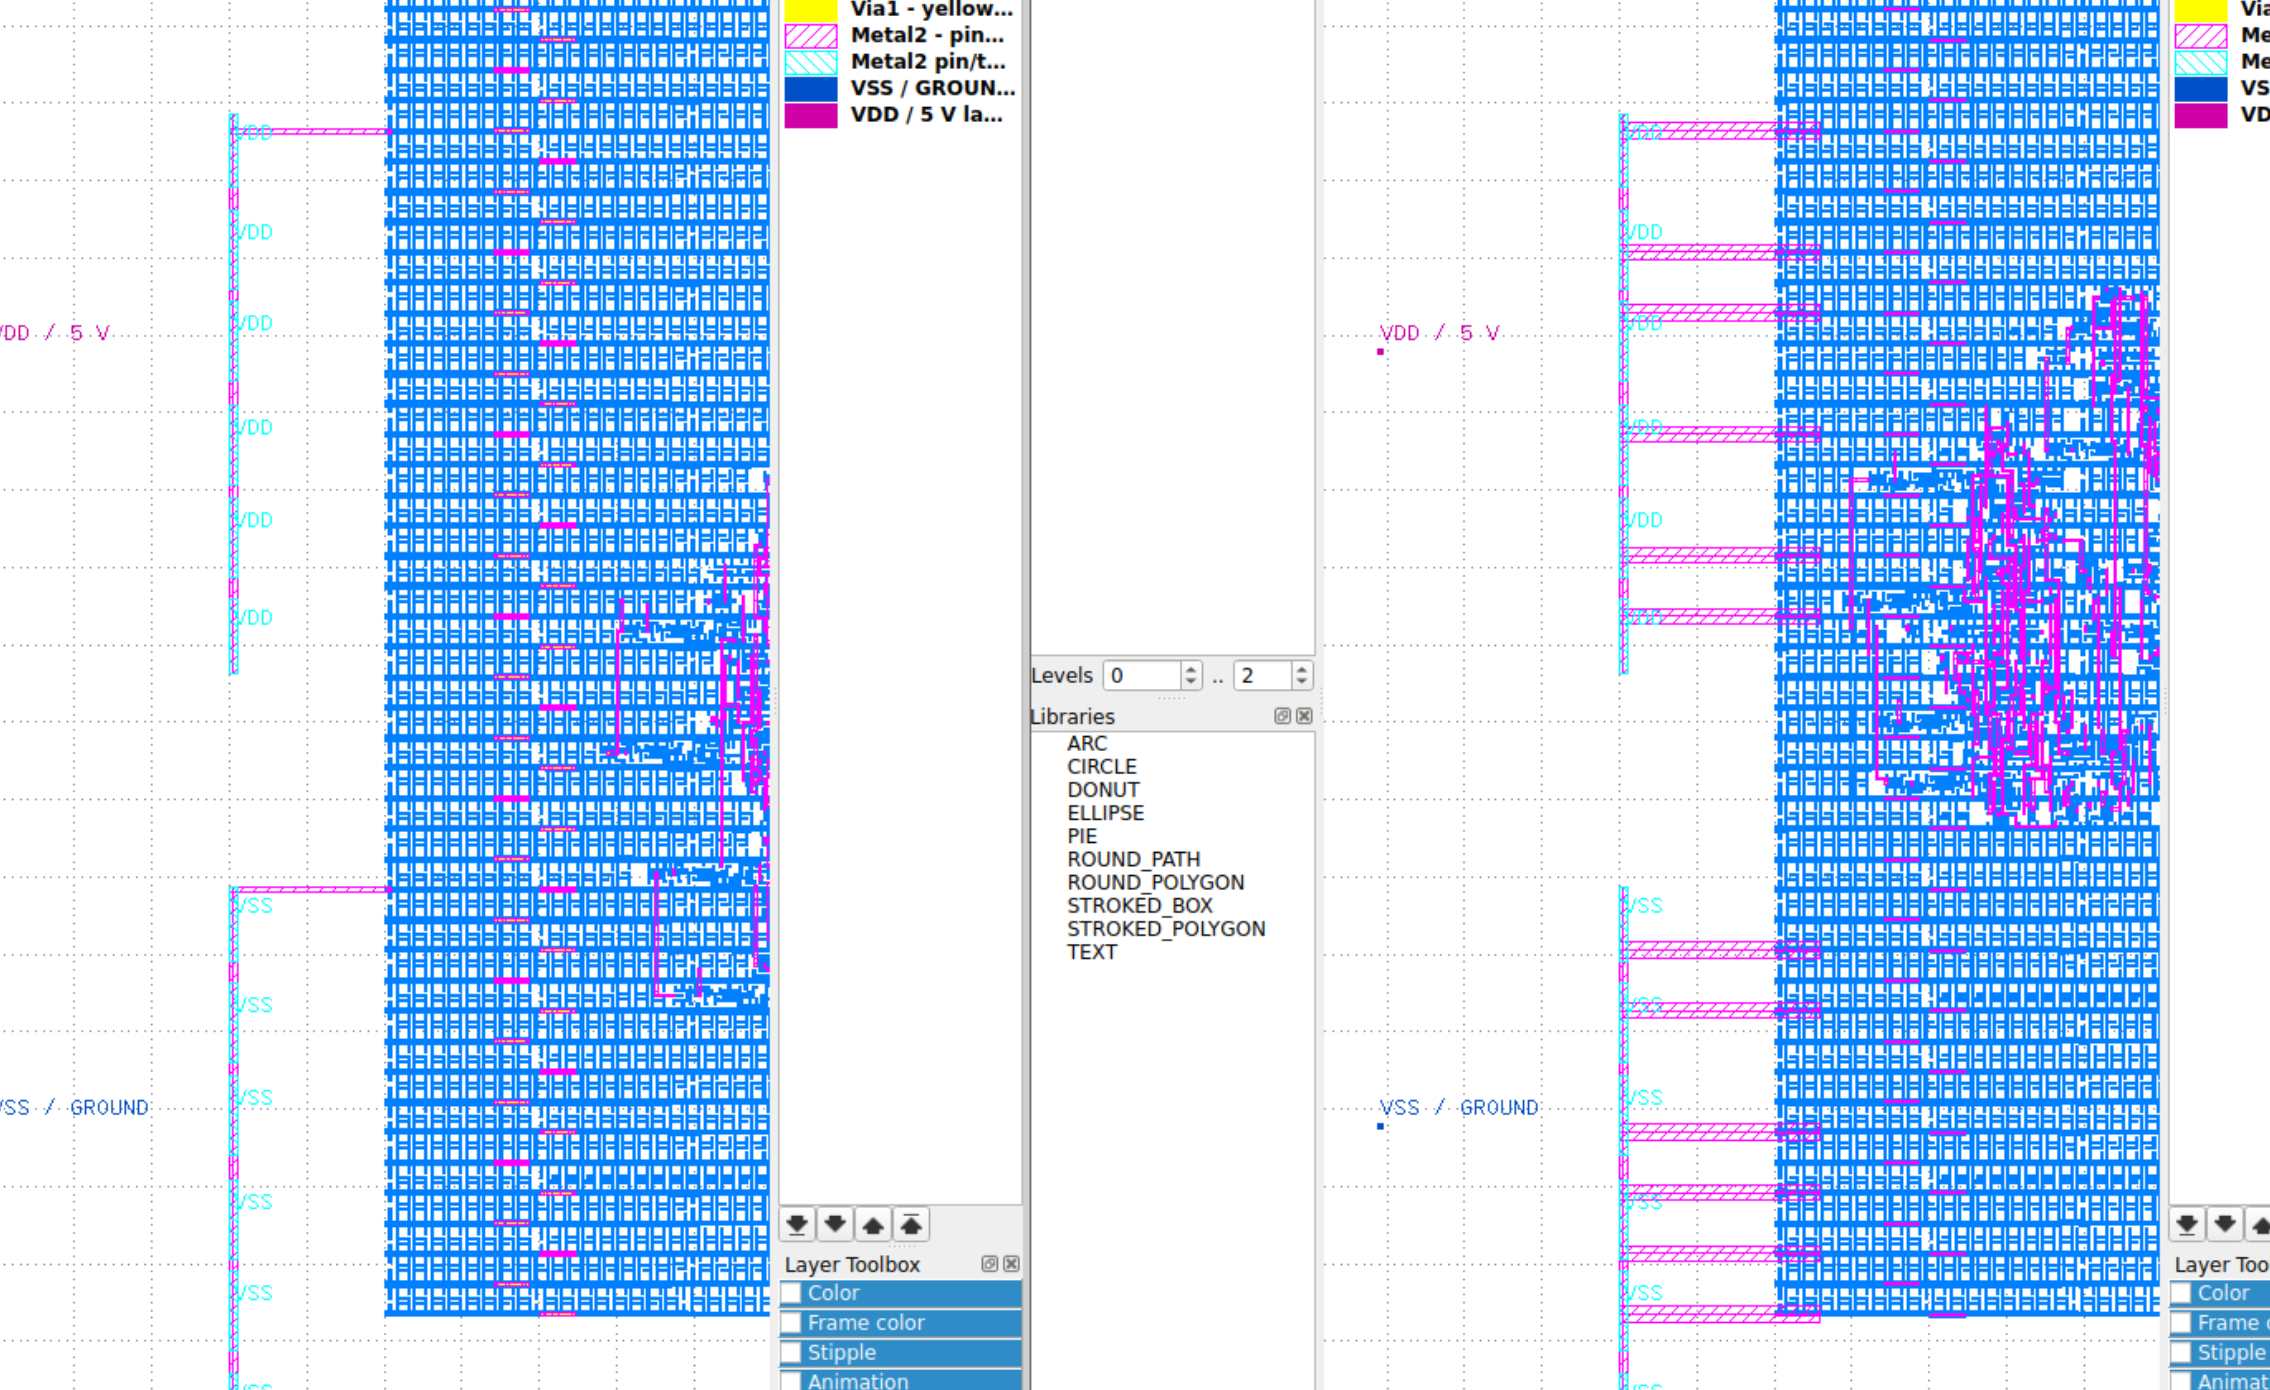
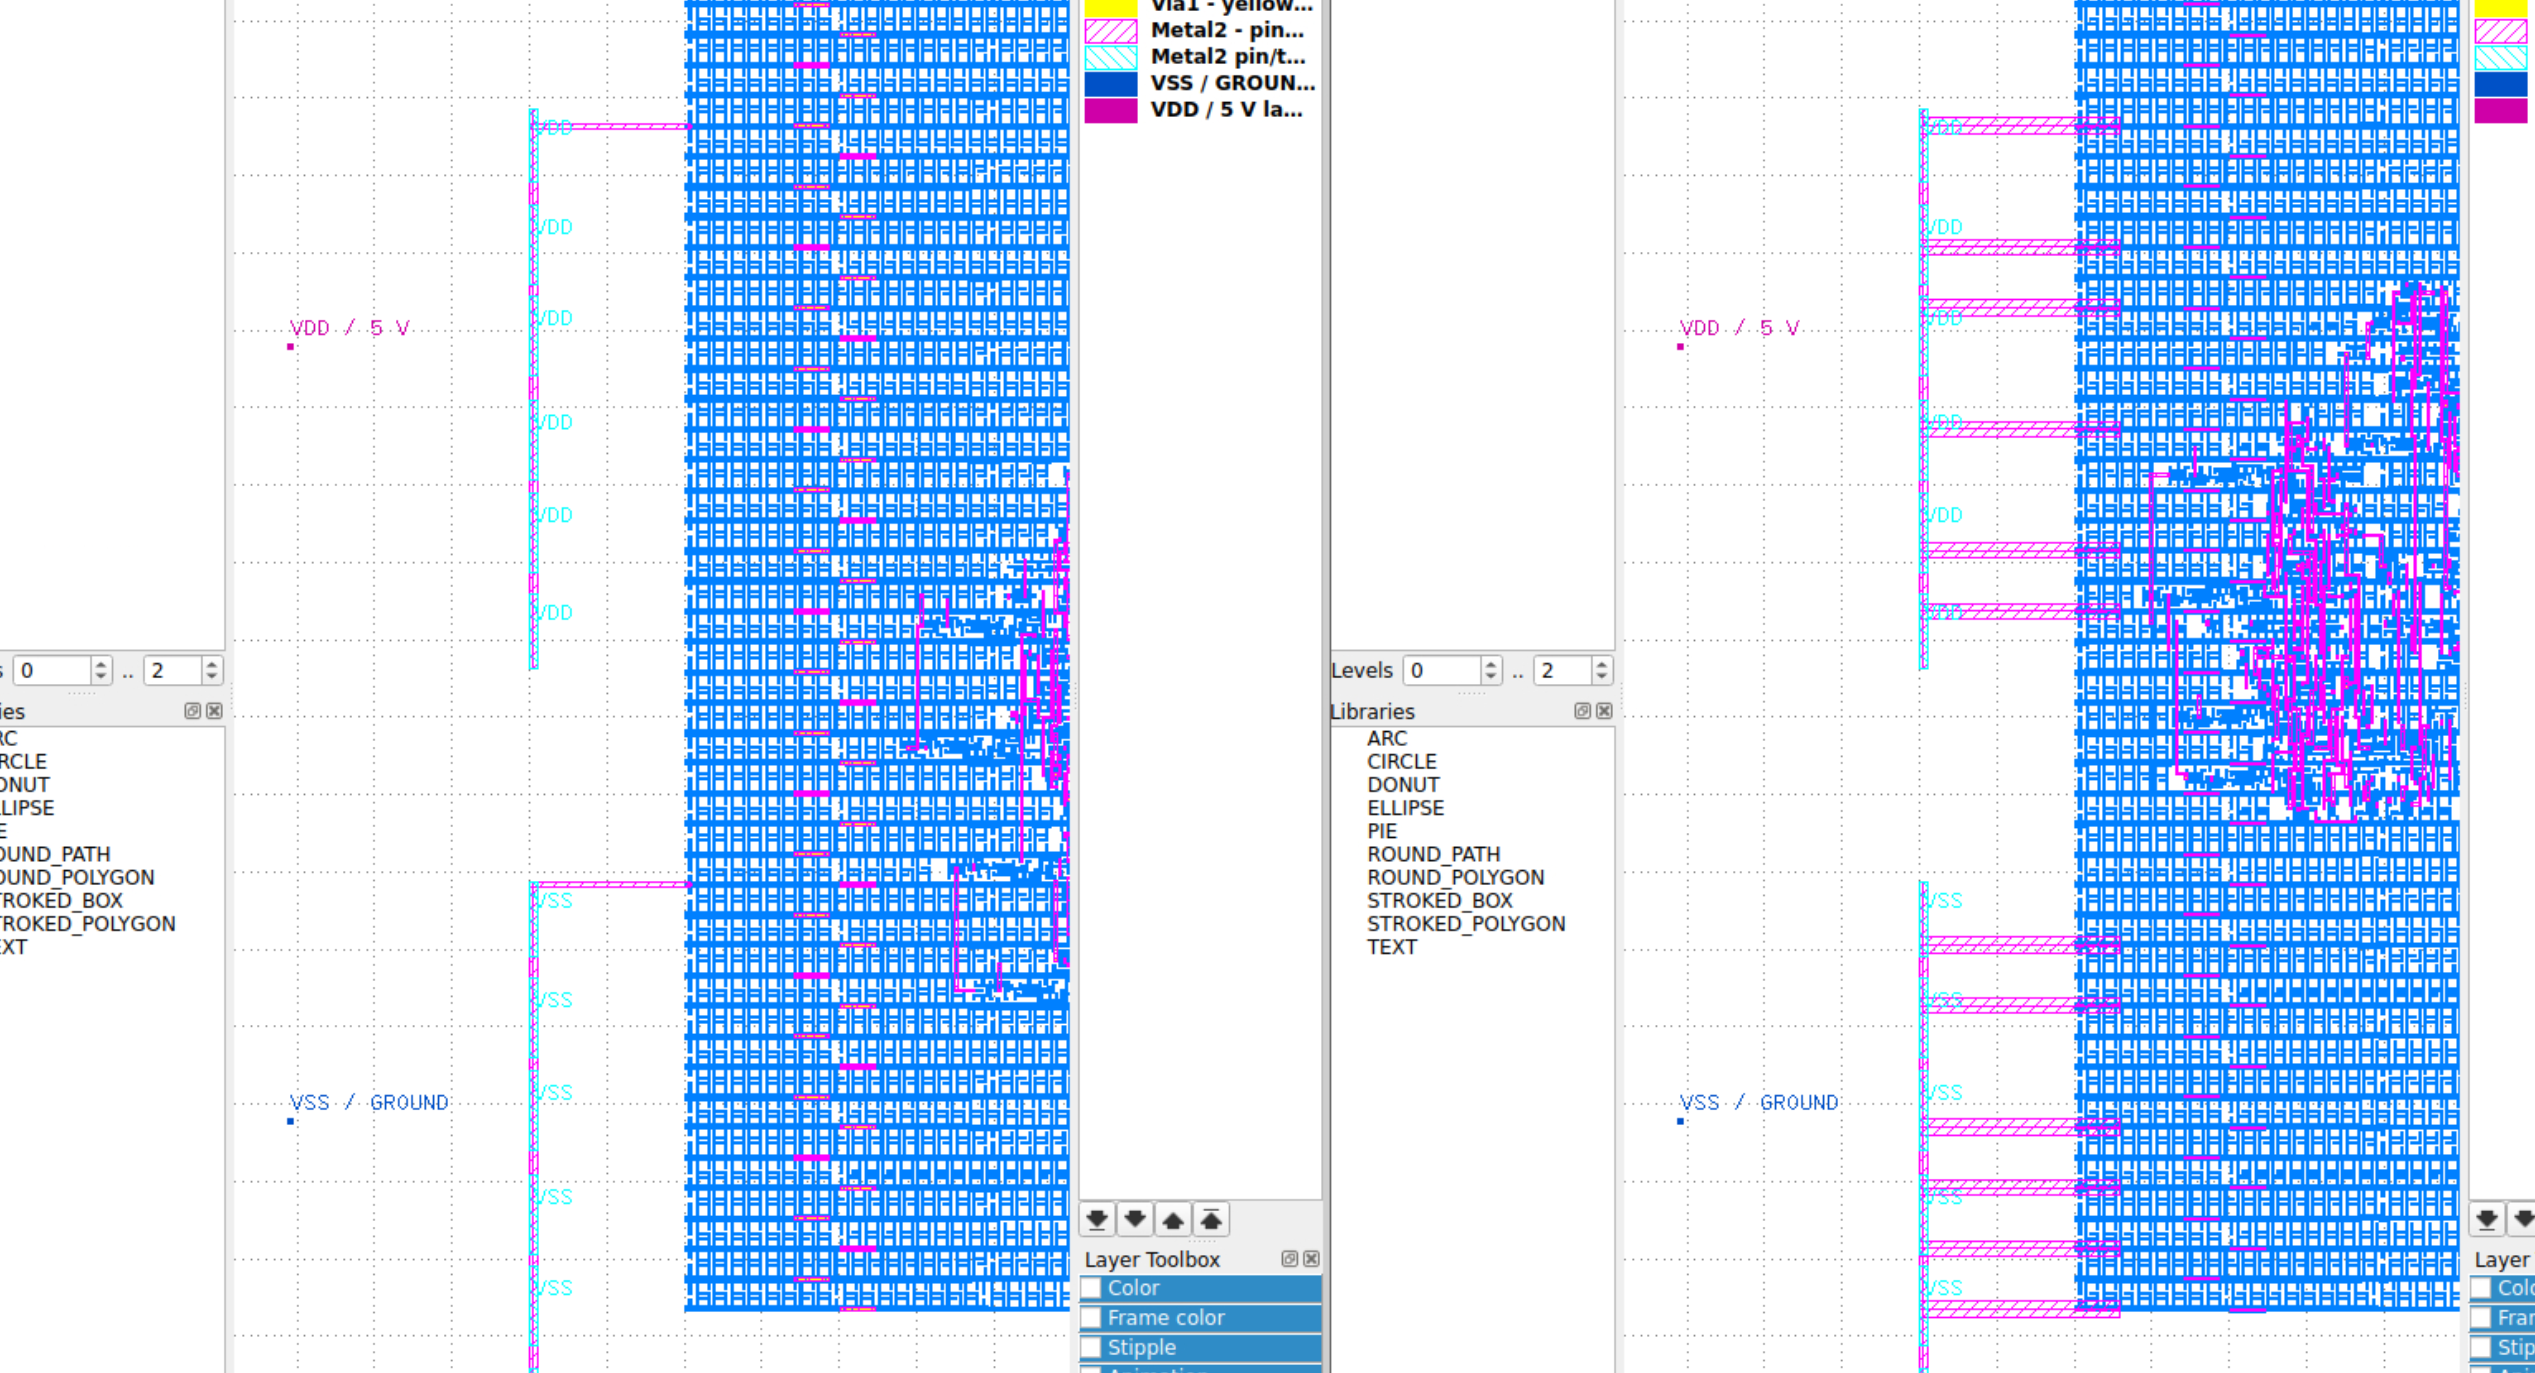
Document A54 power and DBU update

diff --git a/README.md b/README.md
@@ -18,30 +18,42 @@ The response pads are configured as outputs (`OE=1`, `IE=0`) with weak pulls
 disabled.  Clock, reset, command-valid, and command-data pads are configured as
 inputs with weak pulls disabled.
 
-The current signoff-complete implementation is in the LibreLane run
-`synthesis/runs/A54_A_wrapper_strong_power3`. Its final DEF contains the same die area,
-pin names, pin uses, pin directions, and absolute pin geometries as the organizer
-template. The submitted GDS also contains one top-level boundary shape on layer
-0/0 from `(0, 0)` to `(1110, 1110) um`.
+## What changed in this update
 
-For integration safety, the submitted `gds/A54_A.gds` was re-streamed with
-KLayout PCell and library context information disabled
-(`SaveLayoutOptions.write_context_info = false`). A geometry XOR against the
-signoff source GDS reports 0 differences. Magic DRC and Netgen LVS were then
-rerun directly on this context-free GDS and both passed (DRC count 0; circuits
-match uniquely).
+The LSTM RTL, the 22 external pad assignments, and the organizer-provided pin
+locations were not changed. This update addresses the power-entry issue found
+during the A54 integration review.
 
-The submitted GDS database unit is 0.001 um, as required for reliable KLayout
-DRC. A 0.001 um to 0.005 um integration conversion and back to 0.001 um was
-also tested; the round-trip geometry XOR reports 0 differences and preserves
-the `(0, 0)` to `(1110, 1110) um` physical boundary.
+The earlier wrapper connected each supply through one 0.6 um Metal2 branch and
+one via cut. The revised wrapper uses every one of the six VDD and six VSS
+Metal2 access shapes. Each access shape now has its own 2.0 um Metal2 strap into
+the core power grid, with four `Via1_2CUT_H` arrays per strap. This gives 24 via
+arrays and 48 cuts on each supply net.
 
-The organizer DEF's VDD and VSS terminals each consist of six separate Metal2
-port shapes. The strengthened implementation connects all six access shapes on
-each net to the core power grid with six independent 2.0 um-wide Metal2 straps.
-Each strap uses four `Via1_2CUT_H` arrays (eight cuts), for 24 via arrays and 48
-cuts per supply net. This replaces the previous single 0.6 um Metal2 branch and
-single-cut via while preserving every organizer pin shape.
+The left side of the figure is the previous connection. The right side is the
+revised connection used in the submitted GDS.
+
+![A54 power connections before and after the update](docs/images/power_connections_before_after.png)
+
+The final DEF still matches the organizer template: the origin is `(0, 0)`, the
+boundary is `1110 um x 1110 um`, and all 125 internal wrapper terminals keep
+their original names, directions, uses, and locations.
+
+The submitted `gds/A54_A.gds` was also exported without KLayout PCell or library
+context information. Geometry XOR against the signoff source GDS is 0. Magic
+DRC and Netgen LVS were rerun on this exact file: DRC count is 0 and LVS reports
+`Circuits match uniquely`.
+
+## DBU and integration
+
+The A54 GDS is already at a database unit of 0.001 um, so the recent DBU notice
+does not require another layout change for this project. The DRC/LVS recheck was
+performed on the 0.001 um GDS.
+
+We also tested the same file through the integration conversion:
+`0.001 um -> 0.005 um -> 0.001 um`. The round-trip XOR is 0 on every layout
+layer, and the `1110 um x 1110 um` boundary is unchanged. The organizer's
+automatic DBU conversion therefore does not alter the A54 geometry.
 
 Run the wrapper RTL test from this directory:
 
